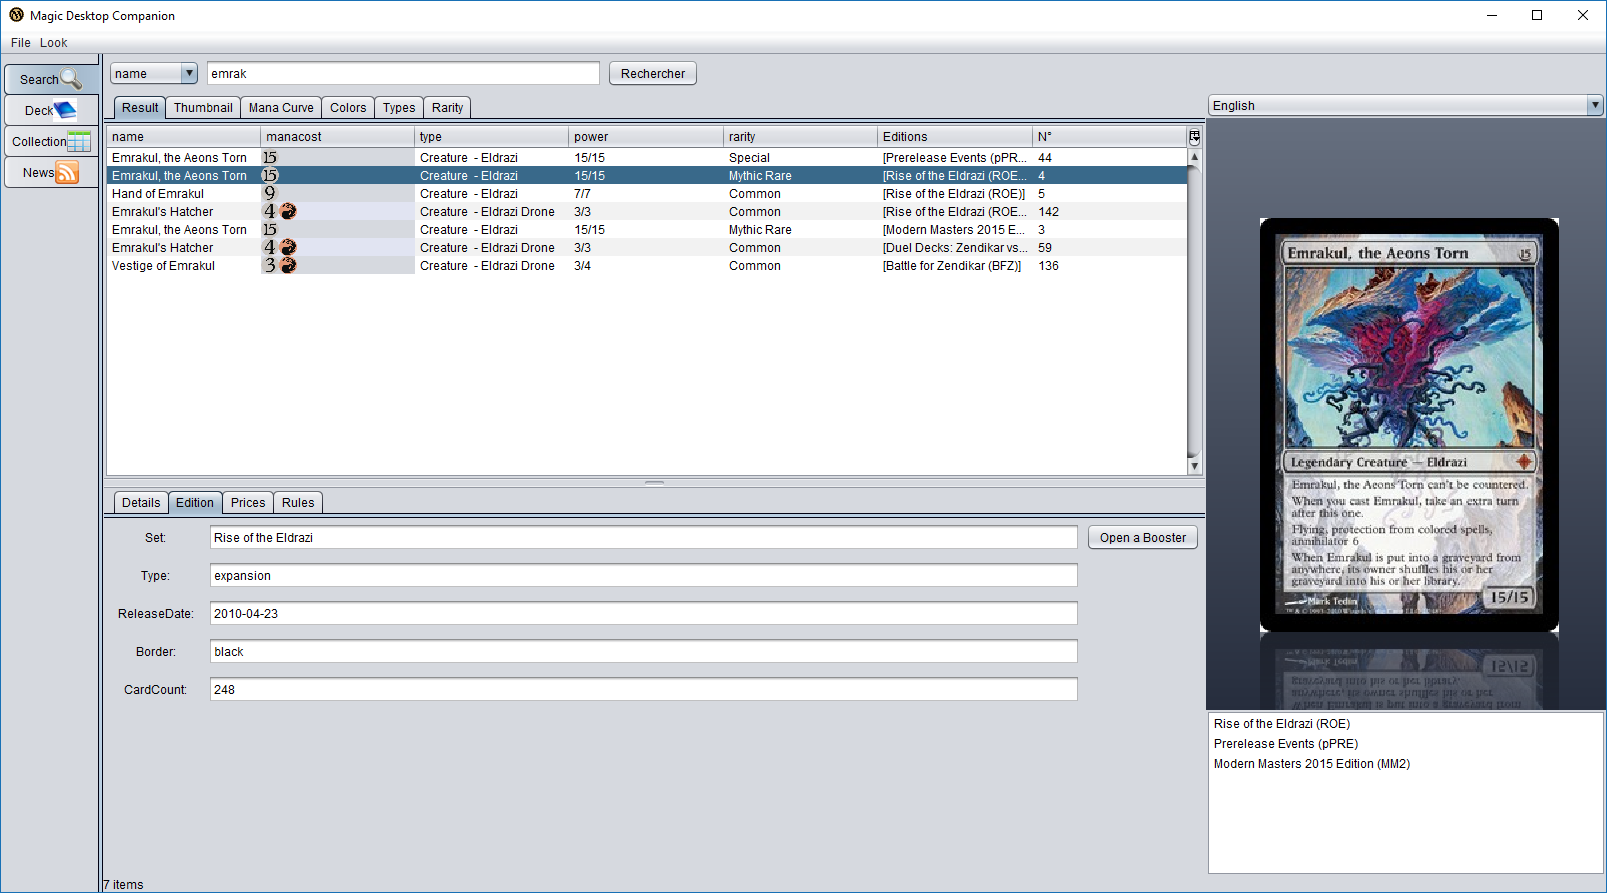
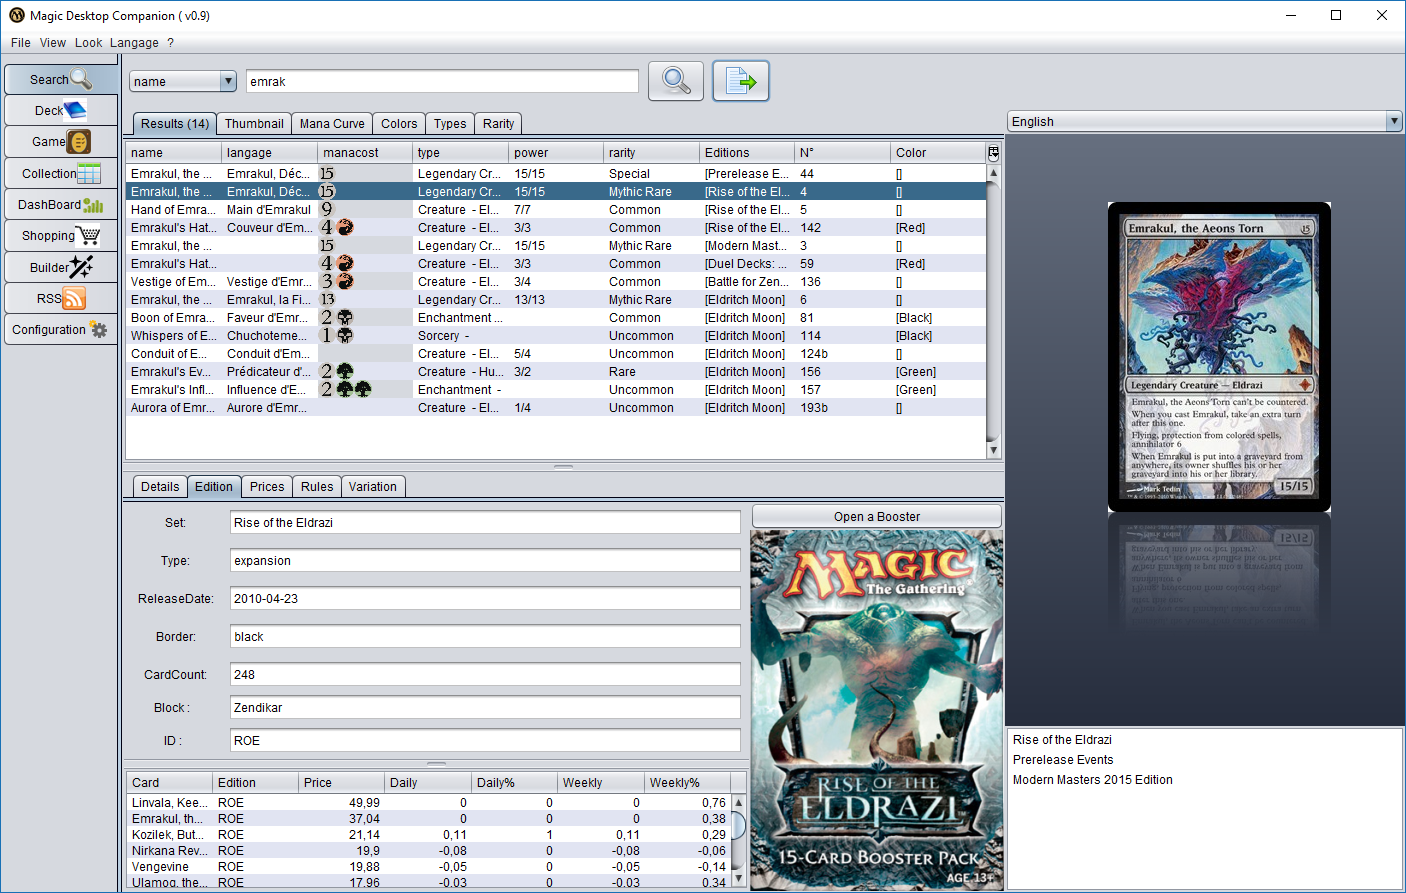
wiki

diff --git a/src/org/magic/api/providers/impl/MagicTheGatheringIOProvider.java b/src/org/magic/api/providers/impl/MagicTheGatheringIOProvider.java
@@ -6,13 +6,14 @@ import java.io.InputStreamReader;
 import java.net.MalformedURLException;
 import java.net.URL;
 import java.net.URLConnection;
-import java.nio.charset.StandardCharsets;
+import java.net.URLEncoder;
 import java.util.ArrayList;
 import java.util.EnumSet;
+import java.util.HashMap;
 import java.util.Iterator;
 import java.util.List;
+import java.util.Map;
 import java.util.Set;
-import java.util.Map.Entry;
 
 import org.apache.log4j.LogManager;
 import org.apache.log4j.Logger;
@@ -20,6 +21,7 @@ import org.magic.api.beans.MagicCard;
 import org.magic.api.beans.MagicCardNames;
 import org.magic.api.beans.MagicEdition;
 import org.magic.api.beans.MagicFormat;
+import org.magic.api.beans.MagicRuling;
 import org.magic.api.interfaces.MagicCardsProvider;
 
 import com.google.gson.JsonArray;
@@ -41,7 +43,8 @@ public class MagicTheGatheringIOProvider implements MagicCardsProvider{
 	private boolean enable;
 	private String jsonUrl ="https://api.magicthegathering.io/v1";
 	
-	List<MagicEdition> list;
+	Map<String , MagicEdition> cache;
+	
 
 	
 	
@@ -75,7 +78,7 @@ public class MagicTheGatheringIOProvider implements MagicCardsProvider{
 		});
 		Configuration.defaultConfiguration().addOptions(Option.DEFAULT_PATH_LEAF_TO_NULL);
 		
-		list=new ArrayList<MagicEdition>();
+		cache=new HashMap<String,MagicEdition>();
 	}
 
 	@Override
@@ -95,7 +98,7 @@ public class MagicTheGatheringIOProvider implements MagicCardsProvider{
 	public List<MagicCard> searchCardByCriteria(String att, String crit, MagicEdition me) throws Exception {
 		List<MagicCard> lists= new ArrayList<MagicCard>();
 		
-		String url = jsonUrl+"/cards?"+att+"="+crit;
+		String url = jsonUrl+"/cards?"+att+"="+URLEncoder.encode(crit,"UTF-8");
 		JsonReader reader= new JsonReader(new InputStreamReader(getStream(url),"UTF-8"));
 		
 		JsonArray jsonList = new JsonParser().parse(reader).getAsJsonObject().getAsJsonArray("cards");
@@ -194,15 +197,53 @@ public class MagicTheGatheringIOProvider implements MagicCardsProvider{
 				}
 			}
 			
+			if(obj.get("rulings")!=null){
+				JsonArray arr = obj.get("rulings").getAsJsonArray();
+				for(int i=0;i<arr.size();i++)
+				{
+					JsonObject k = arr.get(i).getAsJsonObject();
+						MagicRuling rule = new MagicRuling();
+						rule.setDate(k.get("date").getAsString());
+						rule.setText(k.get("text").getAsString());
+						mc.getRulings().add(rule);
+				}
+			}
+			
+			
+			if(obj.get("names")!=null)
+			{
+				 JsonArray arr = obj.get("names").getAsJsonArray();
+				 
+				 List<String> list = new ArrayList();
+				 for (int i = 0; i < arr.size();list.add(arr.get(i++).getAsString()));
+				 
+				 list.remove(mc.getName());
+				 
+				 String rotateName=(list.get(list.size()-1)) ;
+	 			 mc.setRotatedCardName(rotateName);
+	 			 
+	 			 if(mc.getLayout().equals("flip"))
+	 				 mc.setFlippable(true);
+	 			 if(mc.getLayout().equals("double-faced") || mc.getLayout().equals("meld") )
+	 				 mc.setTranformable(true);
+			}
+			
+			
+			
+			
+			
+			
 			String currentSet = obj.get("set").getAsString(); 
 			MagicEdition currentEd = getSetById(currentSet);
 			
 			if(obj.get("multiverseid")!=null)
-			{
 				currentEd.setMultiverse_id(obj.get("multiverseid").getAsString());
-				currentEd.setRarity(mc.getRarity());
-			}
-			mc.getEditions().add(currentEd);
+			
+			currentEd.setRarity(mc.getRarity());
+			
+			
+			
+			mc.getEditions().add(0,currentEd);
 			
 			if(obj.get("printings")!=null){
 				JsonArray arr = obj.get("printings").getAsJsonArray();
@@ -278,6 +319,7 @@ public class MagicTheGatheringIOProvider implements MagicCardsProvider{
 	private InputStream getStream(String url)
 	{
 		try {
+			logger.debug("get stream from " + url);
 			URLConnection connection = new URL(url).openConnection();
 			connection.setRequestProperty("User-Agent", "Mozilla/5.0 (Windows NT 6.1; WOW64) AppleWebKit/537.11 (KHTML, like Gecko) Chrome/23.0.1271.95 Safari/537.11");
 			connection.connect();
@@ -316,19 +358,25 @@ public class MagicTheGatheringIOProvider implements MagicCardsProvider{
 		JsonReader reader= new JsonReader(new InputStreamReader(getStream(url),"UTF-8"));
 		JsonObject root = new JsonParser().parse(reader).getAsJsonObject();
 
-		if(list.size()==0)
+		if(cache.size()==0)
 			for(int i = 0;i<root.get(rootKey).getAsJsonArray().size();i++)
 			{
 				JsonObject e = root.get(rootKey).getAsJsonArray().get(i).getAsJsonObject();
 				MagicEdition ed = generateEdition(e.getAsJsonObject());
-				list.add(ed);
+				cache.put(ed.getId(), ed);
 			}
 		
-		return list;
+		return new ArrayList<MagicEdition>(cache.values());
 	}
 
 	@Override
 	public MagicEdition getSetById(String id) throws Exception {
+		logger.debug("get Set " + id);
+		if(cache.get(id.toString())!=null)
+		{
+			logger.debug("loadgin " + id + " from cache");
+			return cache.get(id.toString());
+		}
 		
 		JsonReader reader= new JsonReader(new InputStreamReader(getStream(jsonUrl+"/sets/"+id),"UTF-8"));
 		JsonObject root = new JsonParser().parse(reader).getAsJsonObject();

diff --git a/src/org/magic/api/dao/impl/MysqlDAO.java b/src/org/magic/api/dao/impl/MysqlDAO.java
@@ -407,29 +407,30 @@ public class MysqlDAO extends AbstractMagicDAO{
 		
 	}
 
-/*
-	private void updateid() throws Exception{
-		Statement stmt = con.createStatement(ResultSet.TYPE_SCROLL_SENSITIVE,ResultSet.CONCUR_UPDATABLE);
-		 ResultSet rs = stmt.executeQuery("select * from cards");
-		 while(rs.next())
-		 {
-			 MagicCard mc = (MagicCard) rs.getObject("mcard");
-			 rs.updateString("id", mc.getId());
-			 rs.updateString("provider", "MTG Json Provider");
-			 rs.updateRow();
-		 }
+
+	private void updateid(MagicCard mc, MagicCollection col) throws Exception{
+		 PreparedStatement stmt = con.prepareStatement("update cards set id=? where name=? and edition=? and collection=?");
+		 				   stmt.setString(1, mc.getId());
+		 				   stmt.setString(2, mc.getName());
+		 				   stmt.setString(3, mc.getEditions().get(0).getId());
+		 				   stmt.setString(4, col.getName());
+		 
+		 stmt.executeUpdate();
+		 System.out.println(mc + " updated");
+		 
 	}
 
-
-	
-	
-	
 	public static void main(String[] args) throws Exception{
 		MysqlDAO dao = new MysqlDAO();
 		dao.init();
-		dao.updateid();
+		for(MagicCollection col : dao.getCollections())
+		{
+			System.out.println("update " + col.getName());
+			for(MagicCard mc : dao.getCardsFromCollection(col))
+				dao.updateid(mc,col);
+		}
 	
-	}*/
+	}
 
 	
 
